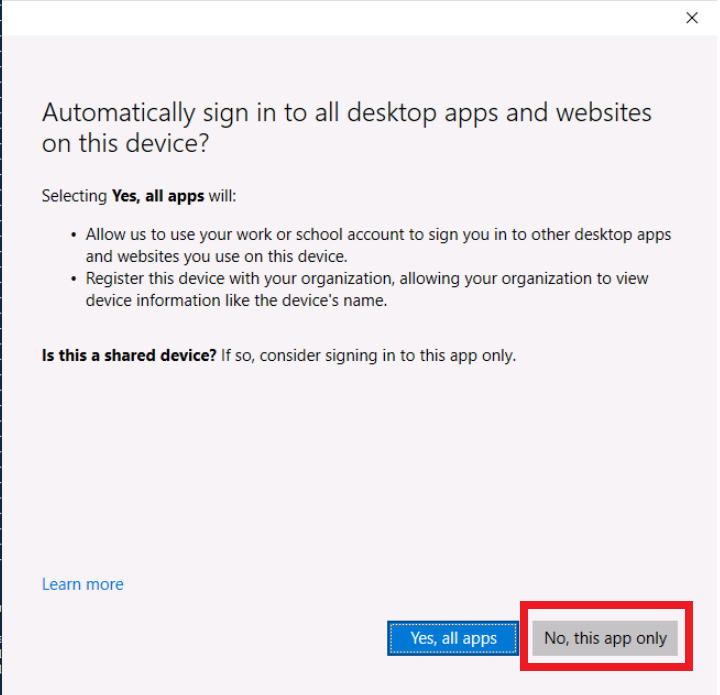
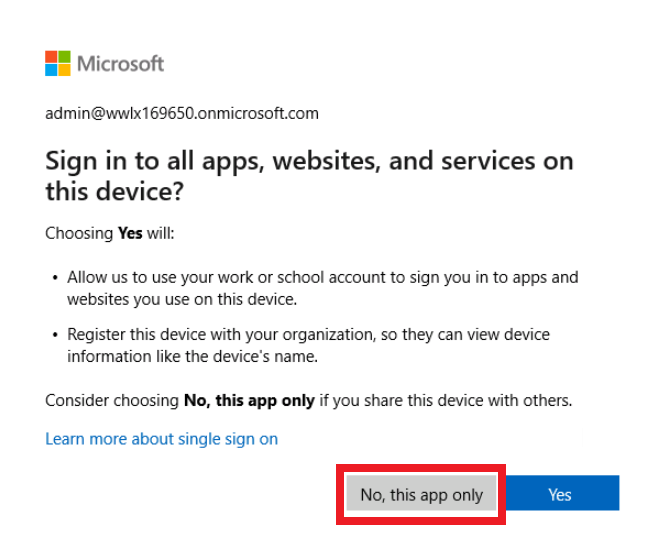
update

diff --git a/Instructions/Labs/LAB_AK_01_Lab1_Ex1_Initialize_M365_Tenant.md b/Instructions/Labs/LAB_AK_01_Lab1_Ex1_Initialize_M365_Tenant.md
@@ -265,7 +265,7 @@ Microsoft 365 をインストールするときに、いくつかの構成タス
 
 5. 資格情報を要求する**サインイン** ウィンドウが表示されます。ラボ ホスティング プロバイダーから提供された MOD 管理者アカウント (**[admin@xxxxxZZZZZZ.onmicrosoft.com](mailto:admin@xxxxxZZZZZZ.onmicrosoft.com)**、xxxxxZZZZZZ はラボ ホスティング プロバイダーから提供されたテナント プレフィックスです) を入力し、[**次へ**] を選択します。[**パスワードの入力**] ウィンドウで、ラボ ホスティング プロバイダーから提供された**管理パスワード**を入力し、 [**サインイン**] を選択します。
 
-6. [Stay signed in to all your apps(すべてのアプリにサインインしたままにする)]ページが 表示されたことを確認し、 **[No, this app only]** をクリックします。 ([OK]ボタンをクリックしないでください。)
+6. [Sign in to all apps～]ページが 表示されたことを確認し、 **[No, this app only]** をクリックします。 ([OK]ボタンをクリックしないでください。)
 
    ![image](./media/lab1-21.png)
 
